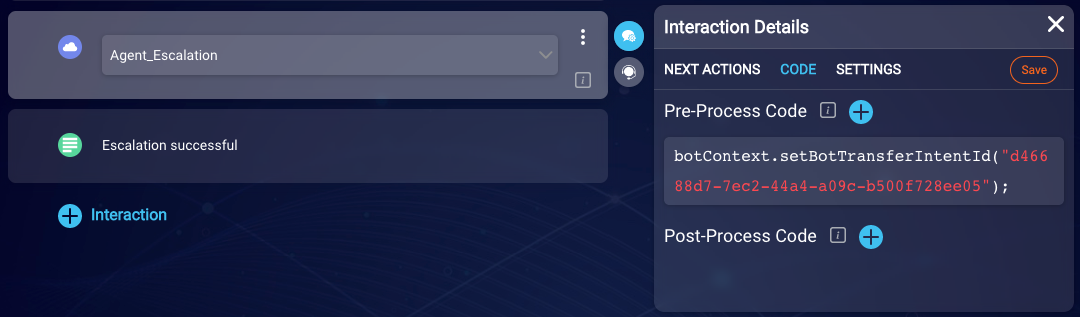
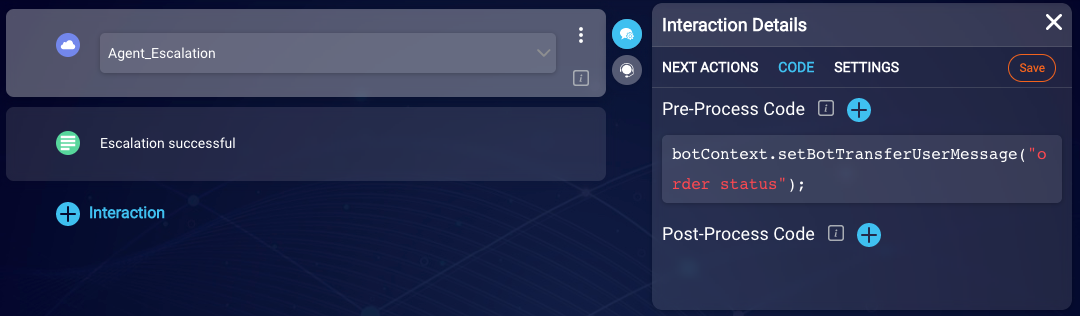
BA-3631 Bot Transfer updates

diff --git a/pages/documents/ConversationalAI/ConversationBuilder/Bots/MultiBotCollaboration.md b/pages/documents/ConversationalAI/ConversationBuilder/Bots/MultiBotCollaboration.md
@@ -10,7 +10,7 @@ permalink: conversation-builder-bots-bot-to-bot-transfers.html
 indicator: both
 ---
 
-### Why transfer?
+### Introduction
 
 When developing bots, it's considered a best practice to develop specialized bots that automate specific business tasks. If you're a large, enterprise company with well-demarcated functional areas, this practice also makes practical sense and lets you scale your automation footprint more easily. Within a business function, bot developers can specialize, and they can implement, maintain, and extend bots efficiently.
 
@@ -32,22 +32,23 @@ To pass the conversational context to the receiver bot, you need to do two thing
 
     <img class="fancyimage" style="width:800px" src="img/ConvoBuilder/bots_collab1.png">
 
-    This enables your use of the Bot Transfer Context object that is sent from the sender bot to the receiver bot during the transfer. Now you can set an intent ID or user message in the object.
+    This enables your use of the Bot Transfer Context object that is sent from the sender bot to the receiver bot during the transfer. Now you can set an intent or user message in the object.
 
-2. Somewhere in the dialog *before* calling the escalation, use either the [setBotTransferIntentId](conversation-builder-scripting-functions-get-set-contextual-data.html#set-bot-transfer-intent-id) function or the [setBotTransferUserMessage](conversation-builder-scripting-functions-get-set-contextual-data.html#set-bot-transfer-user-message) function to set either an intent ID or a user message in the Bot Transfer Context object. In our example below, we've set an intent ID, and we've done this in the Pre-Process Code in the integration interaction.
+2. Somewhere in the dialog *before* calling the escalation, use a "bot transfer" function to set an intent or user message in the Bot Transfer Context object. In our example below, we've set a user message, and we've done this in the Pre-Process Code in the integration interaction.
 
     <img class="fancyimage" style="width:800px" src="img/ConvoBuilder/bots_collab2.png">
 
-Use the following functions to retrieve the intent ID or user message:
+| If you want to set... | Then... | Set the value(s) in the Bot Transfer Context object via...
+| ---- | ---- | ---- |
+| a domain name and an intent name | you can retrieve these from the UI. You can also retrieve the intent name via [getDialogStarterIntent](conversation-builder-scripting-functions-get-set-contextual-data.html#get-matched-intent). The system will ascertain and pass the intent ID based on this information. | setBotTransferDomainName and setBotTransferIntentName |
+| an intent ID | you can retrieve this from the application URL if you're logged into Conversation Builder directly. Otherwise, set the intent name and dialog name instead. | setBotTransferIntentID |
+| a user message | specify the hard-coded string | setBotTransferUserMessage |
 
-* NEED TO ADD
-* [getCurrentUserMessage](conversation-builder-scripting-functions-get-set-contextual-data.html#get-current-user-message)
-
-During the escalation (transfer), the receiver bot checks for the availability of a Bot Transfer Context object. If the object is available, the bot then checks whether it contains an intent ID. If an intent ID isn't available, it then checks whether the object contains a user message. Based on these findings, after the transfer is completed, the receiver bot starts the  appropriate dialog, one that's tied to the intent or that's matched to the user message.
+During the escalation (transfer), the receiver bot checks for the availability of a Bot Transfer Context object. If the object is available, the bot then checks whether it contains an intent. If an intent isn't available, it then checks whether the object contains a user message. Based on these findings, after the transfer is completed, the receiver bot starts the  appropriate dialog, one that's tied to the intent or that's matched to the user message.
 
 ### Transfers without the Bot Transfer Context
 
-You don't have to enable the Bot Transfer Context object in the LivePerson agent escalation and set an intent ID or user message in the object, although this does make the transfer more seamless.
+You don't have to enable the Bot Transfer Context object in the LivePerson agent escalation and set an intent or user message in the object, although this does make the transfer more seamless.
 
 If you don't enable and use the Bot Transfer Context, the transfer flow depends on whether the sender bot responds to the last user message with a message of its own as a part of the transfer. In other words, in the configuration of the escalation, how is the **Message to User** field configured? As discussed [here](conversation-builder-integrations-liveperson-agent-escalation-integrations.html), this field is used to send a message to the user prior to being transferred (e.g., "Hold on while I transfer you...").
 
@@ -57,20 +58,20 @@ If you don't enable and use the Bot Transfer Context, the transfer flow depends 
 
 ### FAQs
 
-#### Which do I set - the intent ID or the user message?
+#### Which do I set - an intent or a user message?
 
-You can set either the intent ID or the user message in the Bot Transfer Context object. Because intents are tied to dialogs, setting the intent ID effectively lets you specify the actual dialog to start. No processing of a user message is required. If you set the user message instead, the receiver bot must match the user message with a pattern or an intent to determine the appropriate dialog to start.
+You can set either, but setting the intent ID effectively lets you specify the dialog to start. No processing of a user message is required. If you set the user message instead, the receiver bot must match the user message with an intent to determine the appropriate dialog to start.
 
-#### Can I set both the intent ID and the user message?
+#### Can I set both an intent and a user message?
 
 Yes, this is possible.
 
-#### What happens if I enable the Transfer Context object, but I don't set an intent ID or user message?
+#### What happens if I enable the Transfer Context object, but I don't set an intent or user message?
 
-The purpose of enabling the Bot Transfer Context object is to be able to set an intent ID or user message, so typically this scenario shouldn't happen. However, if the receiver bot doesn't find an intent ID or user message in the Bot Transfer Context object, the object isn't used during the transfer; see *Transfers without the Bot Transfer Context object* above.
+The purpose of enabling the Bot Transfer Context object is to be able to set an intent or user message, so typically this scenario shouldn't happen. However, if the receiver bot doesn't find an intent or user message in the Bot Transfer Context object, the object isn't used during the transfer; see *Transfers without the Bot Transfer Context object* above.
 
-Conversely, if you set an intent ID or user message, but you don't enable the Bot Transfer Context object, the intent ID or user message is not evaluated. Here again, the object isn't used during the transfer.
+Conversely, if you set an intent or user message, but you don't enable the Bot Transfer Context object, the intent or user message is not evaluated. Here again, the object isn't used during the transfer; see *Transfers without the Bot Transfer Context object* above.
 
 #### How do I transfer other data from the sender bot to the receiver bot?
 
-You can only set an intent ID or user message in the Bot Transfer Context object. To transfer other data between the sender bot and receiver bot, use the [Context Session Store](conversation-builder-scripting-functions-manage-the-context-session-store.html).
+You can only set an intent or user message in the Bot Transfer Context object. To transfer other data between the sender bot and receiver bot, use the [Context Session Store](conversation-builder-scripting-functions-manage-the-context-session-store.html).

diff --git a/pages/documents/ConversationalAI/ConversationBuilder/ScriptingFunctions/getSetContextualData.md b/pages/documents/ConversationalAI/ConversationBuilder/ScriptingFunctions/getSetContextualData.md
@@ -45,9 +45,38 @@ if (count > 10) {
 }
 ```
 
+### Set bot transfer domain name
+
+Use the `setBotTransferDomainName` function to set a domain name in the Bot Transfer Context object that can be sent from the sender bot to the receiver bot during a bot-to-bot transfer (escalation). This function is intended to be used in conjunction with `setBotTransferIntentName`. For more information, see the discussion on bot-to-bot transfers [here](conversation-builder-bots-bot-to-bot-transfers.html).
+
+| Function Name | Arguments | Returns |
+| --- | --- | --- |
+| `setBotTransferIntentId(value)` | *value (String)* – The intent ID to set in the Bot Transfer Context object | None |
+
+#### Example
+
+```javascript
+botContext.setBotTransferIntentId("d46688d7-7ec2-44a4-a09c-b500f728ee05");
+```
+
+### Set bot transfer intent name
+
+Use the `setBotTransferIntentName` function to set an intent name in the Bot Transfer Context object that can be sent from the sender bot to the receiver bot during a bot-to-bot transfer (escalation). This function is intended to be used in conjunction with `setBotTransferDomainName`. For more information, see the discussion on bot-to-bot transfers [here](conversation-builder-bots-bot-to-bot-transfers.html).
+
+| Function Name | Arguments | Returns |
+| --- | --- | --- |
+| `setBotTransferIntentId(value)` | *value (String)* – The intent ID to set in the Bot Transfer Context object | None |
+
+#### Example
+
+```javascript
+botContext.setBotTransferIntentId("d46688d7-7ec2-44a4-a09c-b500f728ee05");
+```
+
+
 ### Set bot transfer intent ID
 
-Use the `setBotTransferIntentId` function to set an intent ID in the Bot Transfer Context object that is sent from the sender bot to the receiver bot during a bot-to-bot transfer (escalation). For more on using this context object and bot-to-bot transfers in general, see [here](conversation-builder-bots-bot-to-bot-transfers.html).
+Use the `setBotTransferIntentId` function to set an intent ID in the Bot Transfer Context object that can be sent from the sender bot to the receiver bot during a bot-to-bot transfer (escalation). For more information, see the discussion on bot-to-bot transfers [here](conversation-builder-bots-bot-to-bot-transfers.html).
 
 | Function Name | Arguments | Returns |
 | --- | --- | --- |
@@ -61,7 +90,7 @@ botContext.setBotTransferIntentId("d46688d7-7ec2-44a4-a09c-b500f728ee05");
 
 ### Set bot transfer user message
 
-Use the `setBotTransferUserMessage` function to set a user message in the Bot Transfer Context object that is sent from the sender bot to the receiver bot during a bot-to-bot transfer (escalation). For more on this context object and bot-to-bot transfers in general, see [here](conversation-builder-bots-bot-to-bot-transfers.html).
+Use the `setBotTransferUserMessage` function to set a user message in the Bot Transfer Context object that can be sent from the sender bot to the receiver bot during a bot-to-bot transfer (escalation). For more information, see the discussion on bot-to-bot transfers [here](conversation-builder-bots-bot-to-bot-transfers.html).
 
 | Function Name | Arguments | Returns |
 | --- | --- | --- |
